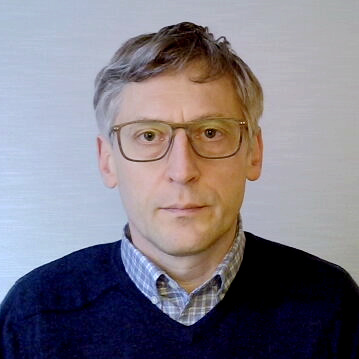
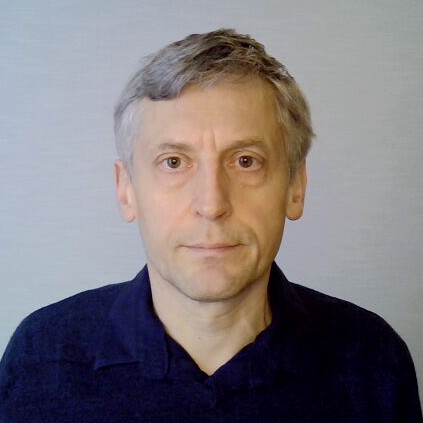
changement photo - titre - couleurs

diff --git a/src/view/SideBar.js b/src/view/SideBar.js
@@ -11,7 +11,7 @@ export default () => (
                 <img src={photoId} alt="photo identité" />
             </div>
             <div id="title-id">   
-                <h1>Thomas Ribardière<br /><span>Développeur Web<br />Webmaster</span></h1>
+                <h1>Thomas Ribardière<br /><span>Développeur Web</span></h1>
             </div>
         </div>
         <div id="contact">

diff --git a/src/style/App.css b/src/style/App.css
@@ -1,8 +1,8 @@
 body {
-  --middle-blue: #295380;
+  --middle-blue: #105095;
   --clear-blue: #73bdea;
   --dark-blue: #06224d;
-  --cream-color : #e1d7cc;
+  --cream-color : #eae7e3;
   background-color: var(--middle-blue);
   color: var(--dark-blue);
   font-family: sans-serif;
